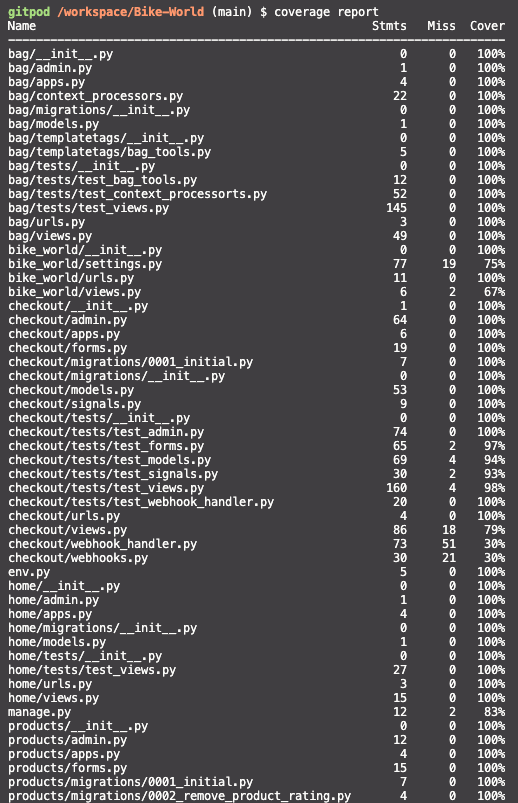
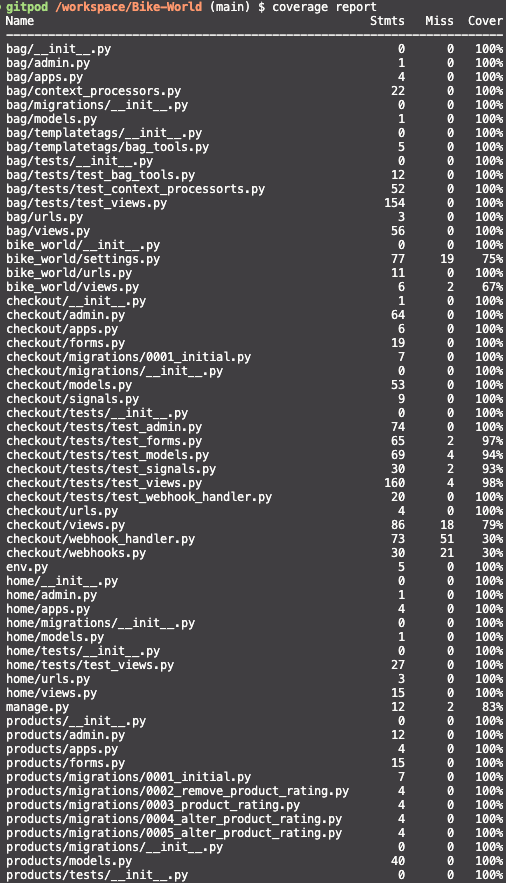
docs: Update automated testing coverage

Changed region(s): [[0.0, 0.0, 1.0, 1.0], [0.504, 0.6227, 0.5336, 0.6538], [0.3557, 0.7783, 0.3854, 0.8095]]

diff --git a/TESTING.md b/TESTING.md
@@ -27,7 +27,7 @@ Back to the [README](README.md)<br>
 
 Python **Automated Unit Testing** was implemented using the [Django Unit Testing](https://docs.djangoproject.com/en/3.2/topics/testing/overview/) framework.  
 **Unit Tests** have been written to cover all major parts of the code like **Forms**, **Models**, **Views**, **Admin**, **Context-Processors** and **Fields**. The tests were created to cover all key aspects of the code. Only the checkout app has a moderate coverage, but here manual testing was applied.
-A total of **226** **Unit Tests** have been written. All **226** tests ran successfully without errors or warnings.   
+A total of **228** **Unit Tests** have been written. All **228** tests ran successfully without errors or warnings.   
 
 <details>
     <summary>Coverage Automated Testing</summary>
